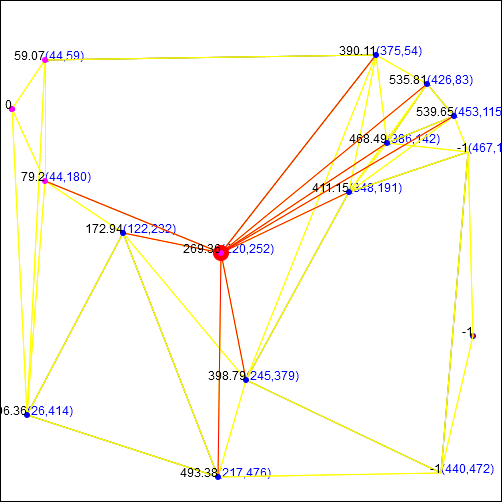
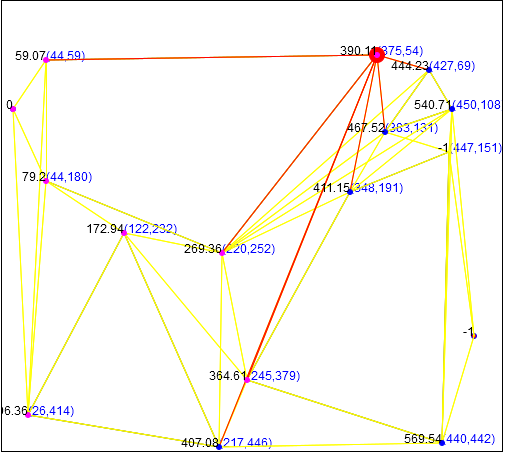
Correction on the images and examples

diff --git a/GrafoVis/index.html b/GrafoVis/index.html
@@ -227,7 +227,7 @@
 			        	Simulations input: <input type="textarea" id="sim_import" />
 			        </div>
 			        <div id="default_sims" style="display: none;">
-			        	{"Zig Zag":"{\"start\":{\"x\":13,\"y\":224},\"end\":{\"x\":484,\"y\":225},\"polygons\":[[{\"x\":26,\"y\":81},{\"x\":23,\"y\":243},{\"x\":47,\"y\":238},{\"x\":47,\"y\":86}],[{\"x\":113,\"y\":214},{\"x\":112,\"y\":428},{\"x\":152,\"y\":421},{\"x\":144,\"y\":216}],[{\"x\":168,\"y\":48},{\"x\":174,\"y\":229},{\"x\":211,\"y\":224},{\"x\":193,\"y\":57}],[{\"x\":273,\"y\":211},{\"x\":262,\"y\":439},{\"x\":400,\"y\":433},{\"x\":377,\"y\":215}],[{\"x\":391,\"y\":38},{\"x\":390,\"y\":233},{\"x\":439,\"y\":227},{\"x\":423,\"y\":36}]]}","Example 1":"{\"start\":{\"x\":11,\"y\":108},\"end\":{\"x\":472,\"y\":335},\"polygons\":[[{\"x\":44,\"y\":59},{\"x\":44,\"y\":180},{\"x\":220,\"y\":252},{\"x\":375,\"y\":54}],[{\"x\":348,\"y\":191},{\"x\":245,\"y\":379},{\"x\":440,\"y\":442},{\"x\":447,\"y\":151}],[{\"x\":122,\"y\":232},{\"x\":26,\"y\":414},{\"x\":217,\"y\":446}]]}","Example Colinear":"{\"start\":{\"x\":100,\"y\":100},\"end\":{\"x\":400,\"y\":400},\"polygons\":[[{\"x\":200,\"y\":200},{\"x\":300,\"y\":300},{\"x\":50,\"y\":150}]] }","Example Colinear 2":"{\"start\":{\"x\":100,\"y\":100},\"end\":{\"x\":440,\"y\":440},\"polygons\":[[{\"x\":200,\"y\":200},{\"x\":300,\"y\":300},{\"x\":50,\"y\":150}], [{\"x\":350,\"y\":350},{\"x\":400,\"y\":400},{\"x\":440,\"y\":300}]] }"}
+			        	{"Example 1":"{\"start\":{\"x\":11,\"y\":108},\"end\":{\"x\":472,\"y\":335},\"polygons\":[[{\"x\":44,\"y\":59},{\"x\":44,\"y\":180},{\"x\":220,\"y\":252},{\"x\":375,\"y\":54}],[{\"x\":348,\"y\":191},{\"x\":245,\"y\":379},{\"x\":440,\"y\":442},{\"x\":447,\"y\":151}],[{\"x\":122,\"y\":232},{\"x\":26,\"y\":414},{\"x\":217,\"y\":446}],[{\"x\":427,\"y\":69},{\"x\":383,\"y\":131},{\"x\":450,\"y\":108}]]}","Zig Zag":"{\"start\":{\"x\":13,\"y\":224},\"end\":{\"x\":484,\"y\":225},\"polygons\":[[{\"x\":26,\"y\":81},{\"x\":23,\"y\":243},{\"x\":47,\"y\":238},{\"x\":47,\"y\":86}],[{\"x\":113,\"y\":214},{\"x\":112,\"y\":428},{\"x\":152,\"y\":421},{\"x\":144,\"y\":216}],[{\"x\":168,\"y\":48},{\"x\":174,\"y\":229},{\"x\":211,\"y\":224},{\"x\":193,\"y\":57}],[{\"x\":273,\"y\":211},{\"x\":262,\"y\":439},{\"x\":400,\"y\":433},{\"x\":377,\"y\":215}],[{\"x\":391,\"y\":38},{\"x\":390,\"y\":233},{\"x\":439,\"y\":227},{\"x\":423,\"y\":36}]]}","Example Colinear 2":"{\"start\":{\"x\":100,\"y\":100},\"end\":{\"x\":440,\"y\":440},\"polygons\":[[{\"x\":200,\"y\":200},{\"x\":300,\"y\":300},{\"x\":50,\"y\":150}], [{\"x\":350,\"y\":350},{\"x\":400,\"y\":400},{\"x\":440,\"y\":300}]] }","Example Colinear":"{\"start\":{\"x\":100,\"y\":100},\"end\":{\"x\":400,\"y\":400},\"polygons\":[[{\"x\":200,\"y\":200},{\"x\":300,\"y\":300},{\"x\":50,\"y\":150}]] }"}
 			        </div>
 				</td>				
 			</tr>
